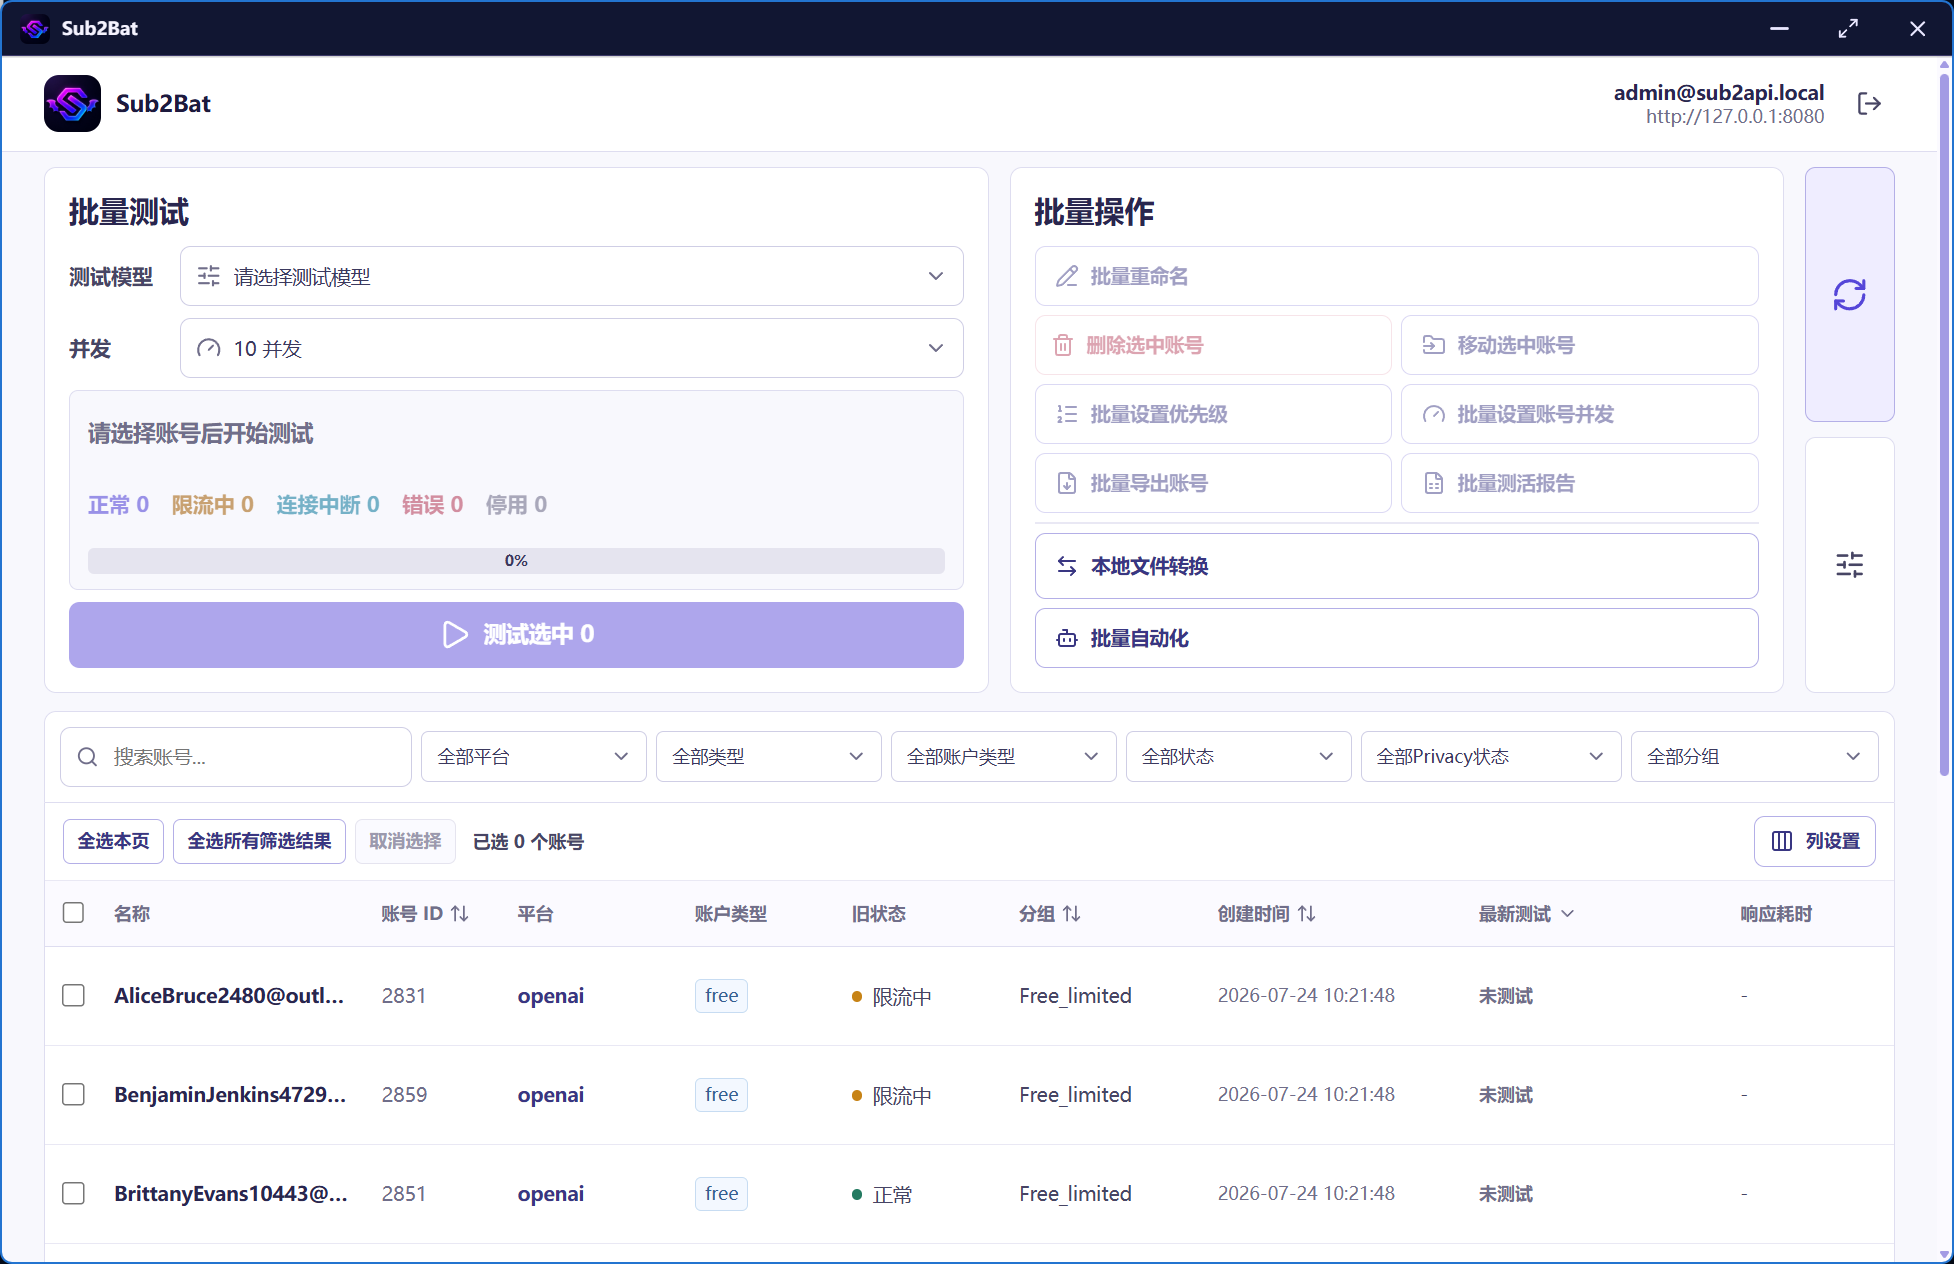
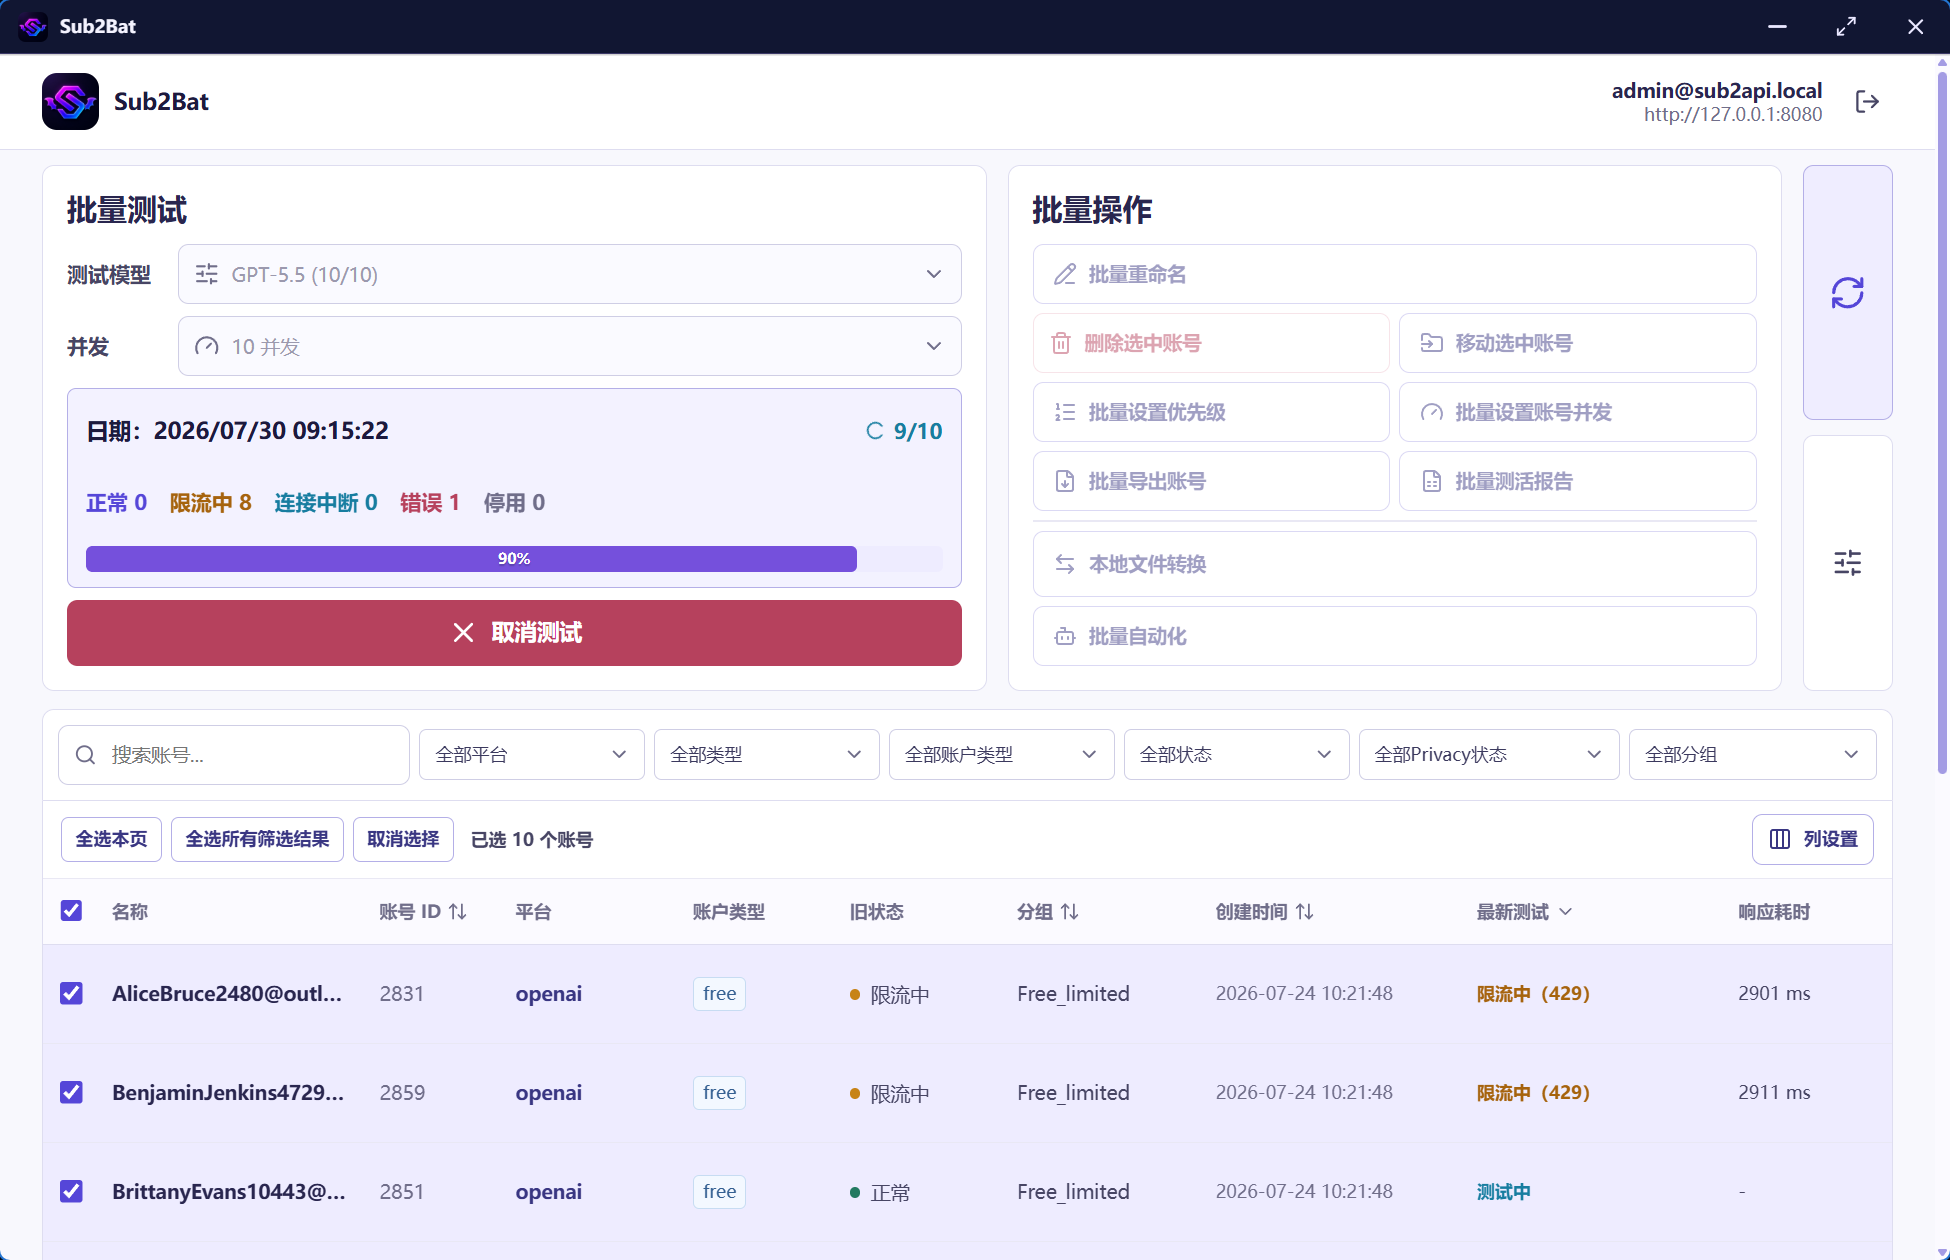
docs: explain project compatibility and conversion sources

diff --git a/README.md b/README.md
@@ -2,13 +2,32 @@
 
 一个可分享的 Windows 桌面工具：登录任意兼容的 sub2api 管理站点后，集中查看账号并批量测试连接。
 
+## 项目介绍
+
+Sub2API 管理端在测试账号活性时，需要逐个账号手动触发；当账号数量较多时，测试、筛选和后续处理会变得繁琐。Sub2Bat 在现有批量测试项目的基础上继续改进，把账号测活、批量维护、导出、格式转换、报告和自动化集中到一个 Windows 桌面工具中。
+
+- **批量测活**：选择当前页、已选账号或全部筛选结果，按指定模型和并发数批量测试账号活性，并实时汇总状态与响应耗时。
+- **批量维护**：补充 Sub2API 管理端缺少或需要逐项完成的操作，包括批量重命名、批量设置优先级、批量设置账号并发、移动和删除等。
+- **批量导出**：可将账号导出为 Sub2API 备份格式或 CPA 格式，并在导出前核验账号范围，降低误导出风险。
+- **本地格式转换**：支持 CPA 与 Sub2API 格式双向转换，文件解析、转换和打包均在本机完成，不会上传认证数据。
+- **测活报告**：可导出测试报告，用于统计正常、限流、连接中断、错误、停用等账号状态及响应耗时。
+- **自动化操作**：可按平台、分组和账号状态组合筛选条件，并依次执行多种操作；既支持单次执行，也支持按时间间隔自动重复。自动重复时会在上一轮完全结束后再开始等待间隔，避免任务重叠。
+
+## 与 Sub2API 更新的关系
+
+Sub2API 更新较快，直接修改 Sub2API 服务端源码来增加这些功能，后续升级时往往需要反复处理本地改动与上游更新之间的合并问题；但有些新版本的重要功能又使得升级不可避免。
+
+Sub2Bat 将批量测活、批量维护、导出、转换、报告和自动化放在独立的客户端中实现，不改动 Sub2API 服务端源码。因此，升级 Sub2API 后通常不需要重新合并 Sub2Bat 的源码改动，理论上只要稳定的管理 API 仍保持兼容，Sub2Bat 就可以继续使用。若上游移除接口、改变接口语义或引入破坏性 API 更新，则仍需要同步适配 Sub2Bat。
+
 ## 来源与维护
 
 Sub2Bat 是基于 [ljh-696/sub2api-batch-tester](https://github.com/ljh-696/sub2api-batch-tester) `v1.1.0` 开发的独立衍生版本，由 H.X. 修改和维护。
 
 原项目 Copyright (c) 2026 Picard-ljh，并依据 MIT License 开源。Sub2Bat 主要增加和完善了账号筛选、批量操作、自动执行、导出、窗口交互及安全性增强等功能。
 
-本项目不是 Sub2API 官方产品，也不代表原项目维护者对本项目提供背书。版权与许可详情见 [LICENSE](LICENSE) 和 [NOTICE.md](NOTICE.md)。
+本地 CPA/Sub2API 双向转换功能参考了 [gtxx3600/CPA2sub2API](https://github.com/gtxx3600/CPA2sub2API) 的公开实现与转换约定。该项目 Copyright (c) 2026 Hanhaofu，并依据 MIT License 开源，完整声明见 [THIRD_PARTY_NOTICES.md](THIRD_PARTY_NOTICES.md)。
+
+本项目不是 Sub2API 官方产品，也不代表相关原项目维护者对本项目提供背书。版权与许可详情见 [LICENSE](LICENSE)、[NOTICE.md](NOTICE.md) 和 [THIRD_PARTY_NOTICES.md](THIRD_PARTY_NOTICES.md)。
 
 ## 界面预览
 
@@ -19,6 +38,10 @@ Sub2Bat 是基于 [ljh-696/sub2api-batch-tester](https://github.com/ljh-696/sub2
 ### 批量自动化
 
 ![Sub2Bat 批量自动化界面](docs/images/sub2bat-automation.png)
+
+### 本地文件转换
+
+![Sub2Bat CPA 与 Sub2API 本地文件转换界面](docs/images/sub2bat-conversion.png)
 
 ## 功能
 

diff --git a/THIRD_PARTY_NOTICES.md b/THIRD_PARTY_NOTICES.md
@@ -1,0 +1,29 @@
+# Third-Party Notices
+
+## CPA2sub2API
+
+The local CPA/Sub2API format conversion feature references the public
+implementation and conversion conventions from
+[gtxx3600/CPA2sub2API](https://github.com/gtxx3600/CPA2sub2API).
+
+MIT License
+
+Copyright (c) 2026 Hanhaofu
+
+Permission is hereby granted, free of charge, to any person obtaining a copy
+of this software and associated documentation files (the "Software"), to deal
+in the Software without restriction, including without limitation the rights
+to use, copy, modify, merge, publish, distribute, sublicense, and/or sell
+copies of the Software, and to permit persons to whom the Software is
+furnished to do so, subject to the following conditions:
+
+The above copyright notice and this permission notice shall be included in all
+copies or substantial portions of the Software.
+
+THE SOFTWARE IS PROVIDED "AS IS", WITHOUT WARRANTY OF ANY KIND, EXPRESS OR
+IMPLIED, INCLUDING BUT NOT LIMITED TO THE WARRANTIES OF MERCHANTABILITY,
+FITNESS FOR A PARTICULAR PURPOSE AND NONINFRINGEMENT. IN NO EVENT SHALL THE
+AUTHORS OR COPYRIGHT HOLDERS BE LIABLE FOR ANY CLAIM, DAMAGES OR OTHER
+LIABILITY, WHETHER IN AN ACTION OF CONTRACT, TORT OR OTHERWISE, ARISING FROM,
+OUT OF OR IN CONNECTION WITH THE SOFTWARE OR THE USE OR OTHER DEALINGS IN THE
+SOFTWARE.

diff --git a/NOTICE.md b/NOTICE.md
@@ -16,3 +16,12 @@ Sub2Bat is not an official Sub2API product. The original project's name and
 attribution do not imply endorsement of this derivative work.
 
 The full MIT License text is provided in the LICENSE file.
+
+The local CPA/Sub2API format conversion feature references the public
+implementation and conversion conventions from:
+
+gtxx3600/CPA2sub2API
+https://github.com/gtxx3600/CPA2sub2API
+
+CPA2sub2API Copyright (c) 2026 Hanhaofu and is licensed under the MIT License.
+Its full notice and license text are provided in THIRD_PARTY_NOTICES.md.
